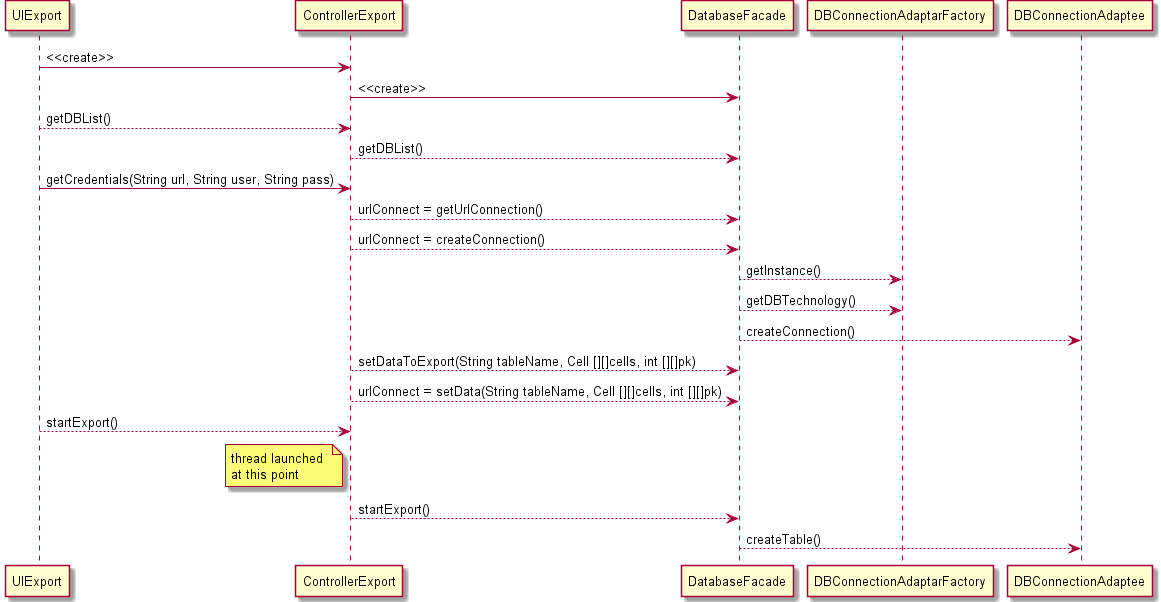
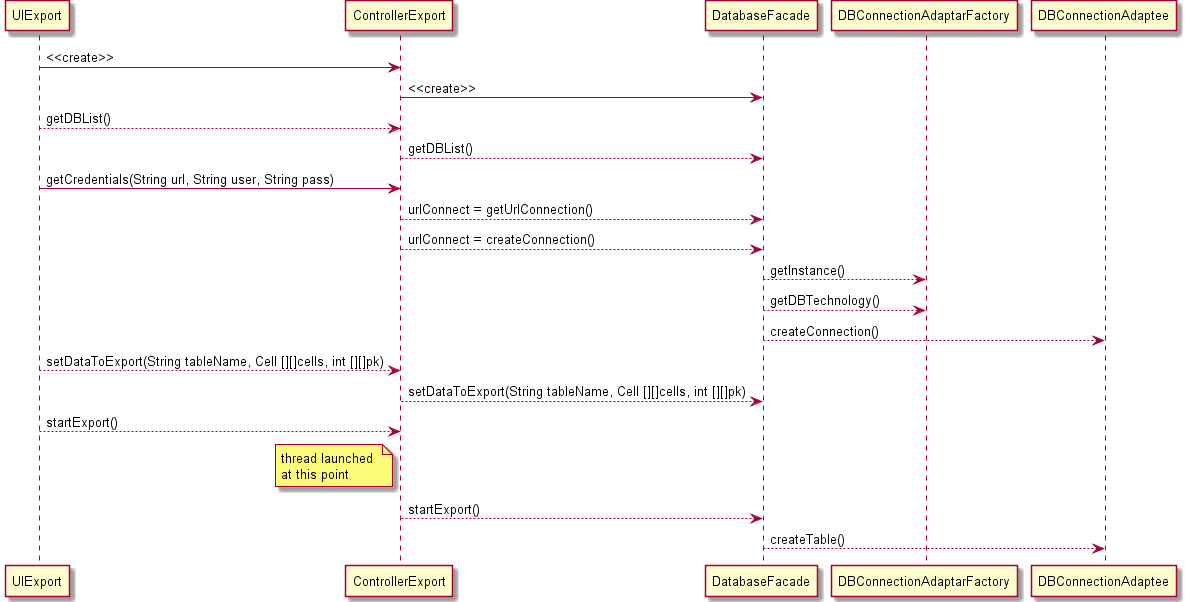
1111168: added uc_realization DBimport ref #9

diff --git a/docs/1111168/UmlDiagrams.java b/docs/1111168/UmlDiagrams.java
@@ -345,11 +345,11 @@ ControllerExport --> DatabaseFacade: getDBList()
 UIExport -> ControllerExport: getCredentials(String url, String user, String pass)
 ControllerExport --> DatabaseFacade: urlConnect = getUrlConnection()
 ControllerExport --> DatabaseFacade: urlConnect = createConnection()
-DatabaseFacade --> DBConnectionAdaptarFactory: getInstance()
-DatabaseFacade --> DBConnectionAdaptarFactory: getDBTechnology()
+DatabaseFacade --> DBConnectionAdapterFactory: getInstance()
+DatabaseFacade --> DBConnectionAdapterFactory: getDBTechnology()
 DatabaseFacade --> DBConnectionAdaptee: createConnection()
+UIExport --> ControllerExport: setDataToExport(String tableName, Cell [][]cells, int [][]pk)
 ControllerExport --> DatabaseFacade: setDataToExport(String tableName, Cell [][]cells, int [][]pk)
-ControllerExport --> DatabaseFacade: urlConnect = setData(String tableName, Cell [][]cells, int [][]pk)
 UIExport --> ControllerExport: startExport()
 note left of ControllerExport
  thread launched 
@@ -358,4 +358,32 @@ end note
 ControllerExport --> DatabaseFacade: startExport()
 DatabaseFacade --> DBConnectionAdaptee: createTable()
 @enduml
+
+@startuml Diagrams/use_case_realization_DBimport.png
+UIImport -> ControllerImport: <<create>>
+ControllerImport -> DatabaseFacade: <<create>>
+UIImport --> ControllerImport: getDBList()
+ControllerImport --> DatabaseFacade: getDBList()
+UIImport -> ControllerImport: setCredentials(String url, String user, String pass)
+ControllerImport --> DatabaseFacade: urlConnect = getUrlConnection()
+ControllerImport --> DatabaseFacade: createConnection()
+DatabaseFacade --> DBConnectionAdapterFactory: getInstance()
+DatabaseFacade --> DBConnectionAdapterFactory: getDBTechnology()
+DatabaseFacade --> DBConnectionAdaptee: createConnection()
+UIImport --> ControllerImport: getTableList()
+ControllerImport --> DatabaseFacade: getTableList()
+DatabaseFacade --> DBConnectionAdaptee: getTableList()
+UIImport --> ControllerImport: loadTables()
+ControllerImport --> DatabaseFacade: loadTables()
+UIImport --> ControllerImport: startImport()
+ControllerImport --> DatabaseFacade: getTableContent()
+DatabaseFacade --> DBConnectionAdaptee: getTableContent()
+UIImport --> ControllerImport: getTable()
+note left of ControllerImport
+ thread launched 
+ at this point
+end note
+UIImport --> UIImport: showData()
+@enduml
+
 */
